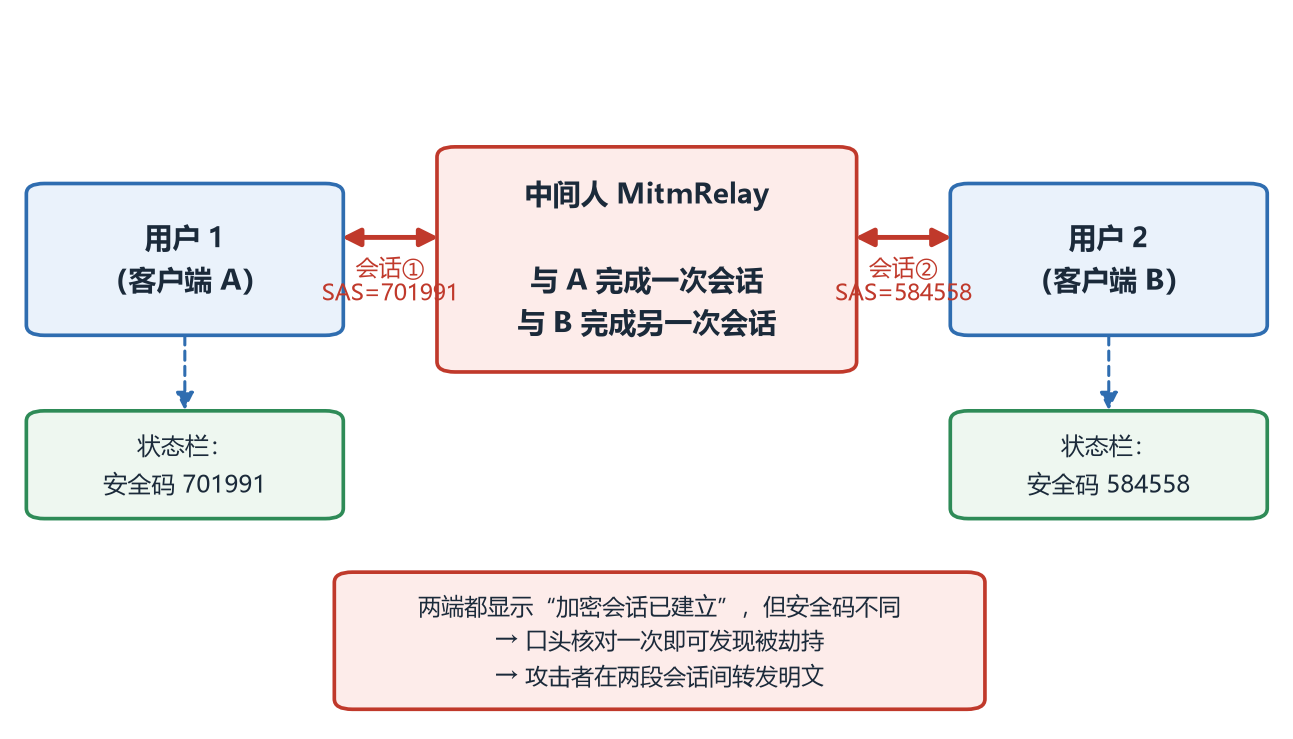
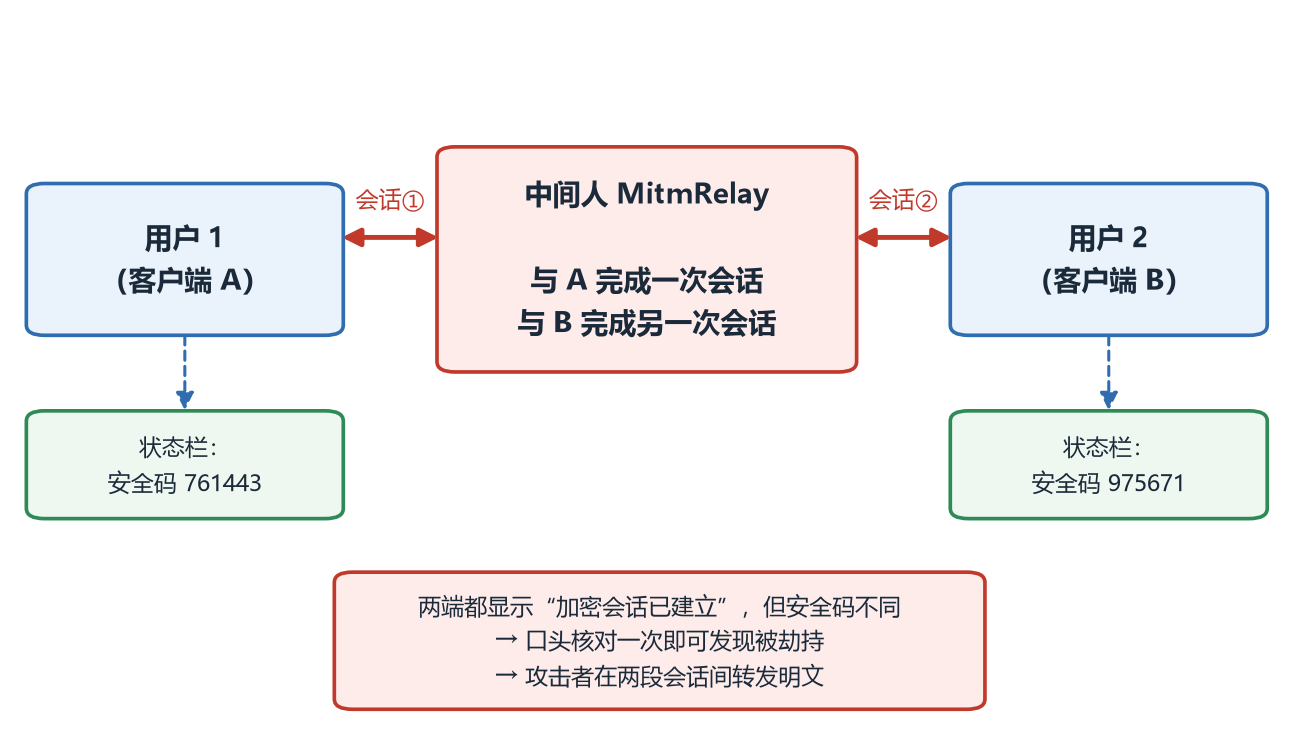
fig: 修复拓扑图排版（文字被裁切/注释压框/连线穿框/状态机方框重叠）

diff --git a/Tools/make_figures.py b/Tools/make_figures.py
@@ -7,6 +7,7 @@
   %TEMP%\\crypto_test_out.txt  CryptoTest.exe 的真实输出
 """
 import os
+import re
 
 import matplotlib
 matplotlib.use("Agg")
@@ -37,20 +38,103 @@ PURPLE = ("#f3eefb", "#6f42c1")
 
 # 记录“文字-方框”对，在 save() 时检查文字是否溢出方框
 _CHECK = []
+_NOTES = []
+_LABELS = []
+_RECTS = []
+_ARROWS = []
+
+
+def _bbox(t, r):
+    b = t.get_window_extent(r)
+    return (b.x0, b.y0, b.x1, b.y1)
+
+
+def _inter(a, b, pad=1.0):
+    return not (a[2] - pad <= b[0] or b[2] - pad <= a[0] or
+                a[3] - pad <= b[1] or b[3] - pad <= a[1])
 
 
 def _check(name):
-    """打印溢出告警（文字超出方框），用于逐条修正排版。"""
+    """打印排版告警：文字超框 / 超出画布 / 注释压框 / 注释互相重叠。"""
     fig = plt.gcf()
     fig.canvas.draw()
     r = fig.canvas.get_renderer()
+    cb = None
+    ab = fig.axes[0].get_window_extent(r)
+    canvas_box = (ab.x0, ab.y0, ab.x1, ab.y1)
+
     for p, t in _CHECK:
-        pb = p.get_window_extent(r)
-        tb = t.get_window_extent(r)
-        if tb.width > pb.width - 1.5 or tb.height > pb.height - 1.5:
-            print("    !! OVERFLOW %-20s %-28s text=%4.0f box=%4.0f"
-                  % (name, repr(t.get_text())[:28], tb.width, pb.width))
+        pb = _bbox(p, r)
+        tb = _bbox(t, r)
+        if tb[2] - tb[0] > pb[2] - pb[0] - 1.5 or tb[3] - tb[1] > pb[3] - pb[1] - 1.5:
+            print("    !! OVERFLOW %-20s %-26s tw=%.0f bw=%.0f th=%.0f bh=%.0f"
+                  % (name, repr(t.get_text())[:26], tb[2] - tb[0], pb[2] - pb[0],
+                     tb[3] - tb[1], pb[3] - pb[1]))
+
+    for t in _NOTES + _LABELS:
+        tb = _bbox(t, r)
+        if (tb[0] < canvas_box[0] + 1 or tb[2] > canvas_box[2] - 1 or
+                tb[1] < canvas_box[1] + 1 or tb[3] > canvas_box[3] - 1):
+            print("    !! CLIPPED  %-20s %s" % (name, repr(t.get_text())[:34]))
+
+    boxes = [(p, t) for p, t in _CHECK]
+    for t in _NOTES:
+        tb = _bbox(t, r)
+        for p, bt in boxes:
+            pb = _bbox(p, r)
+            if _inter(tb, pb):
+                # 注释中心落在框内且框完全包住注释 → 视为“有意放置”
+                cx, cy = (tb[0] + tb[2]) / 2, (tb[1] + tb[3]) / 2
+                inside = pb[0] <= cx <= pb[2] and pb[1] <= cy <= pb[3]
+                covered = pb[0] <= tb[0] + 1 and tb[2] <= pb[2] - 1 and pb[1] <= tb[1] + 1 and tb[3] <= pb[3] - 1
+                if not (inside and covered):
+                    print("    !! HIT-BOX  %-20s %-30s %s"
+                          % (name, repr(t.get_text())[:30], repr(bt.get_text())[:22]))
+
+    alltxt = [(_bbox(t, r), t) for t in _NOTES]
+    for i in range(len(alltxt)):
+        for j in range(i + 1, len(alltxt)):
+            if _inter(alltxt[i][0], alltxt[j][0]):
+                print("    !! HIT-TXT  %-20s %s | %s"
+                      % (name, repr(alltxt[i][1].get_text())[:24],
+                         repr(alltxt[j][1].get_text())[:24]))
+
+    # 连线穿过方框（视觉上最频发的“乱”）
+    for (x1, y1), (x2, y2), rad in _ARROWS:
+        cx = (x1 + x2) / 2 + rad * (y2 - y1)
+        cy = (y1 + y2) / 2 - rad * (x2 - x1)
+        for (rx, ry, rw, rh, rname) in _RECTS:
+            hit = False
+            for k in range(1, 40):
+                t2 = k / 40.0
+                px = (1 - t2) ** 2 * x1 + 2 * (1 - t2) * t2 * cx + t2 ** 2 * x2
+                py = (1 - t2) ** 2 * y1 + 2 * (1 - t2) * t2 * cy + t2 ** 2 * y2
+                if rx + 1 < px < rx + rw - 1 and ry + 1 < py < ry + rh - 1:
+                    hit = True
+                    break
+            if hit:
+                print("    !! ARROW-IN %-20s (%.0f,%.0f)->(%.0f,%.0f) 穿过 %s"
+                      % (name, x1, y1, x2, y2, rname))
+
+    # 方框互相重叠（完全包含视为“容器”，不算问题）
+    for i in range(len(_RECTS)):
+        ax1, ay1, aw1, ah1, an1 = _RECTS[i]
+        for j in range(i + 1, len(_RECTS)):
+            bx1, by1, bw1, bh1, bn2 = _RECTS[j]
+            if not (ax1 < bx1 + bw1 - 1 and bx1 < ax1 + aw1 - 1 and
+                    ay1 < by1 + bh1 - 1 and by1 < ay1 + ah1 - 1):
+                continue
+            contains = (ax1 <= bx1 and ay1 <= by1 and
+                        bx1 + bw1 <= ax1 + aw1 and by1 + bh1 <= ay1 + ah1) or \
+                       (bx1 <= ax1 and by1 <= ay1 and
+                        ax1 + aw1 <= bx1 + bw1 and ay1 + ah1 <= by1 + bh1)
+            if not contains:
+                print("    !! BOX-OVLP %-20s %s | %s" % (name, an1, bn2))
     _CHECK.clear()
+    _NOTES.clear()
+    _LABELS.clear()
+    _RECTS.clear()
+    _ARROWS.clear()
 
 
 # 插图按“最终印刷尺寸”绘制：画布宽度接近插入宽度（16 cm ≈ 6.3 in），
@@ -82,6 +166,7 @@ def box(ax, x, y, w, h, text, colors=BLUE, fs=9, bold=False, ls="-", lw=1.2,
     t = ax.text(tx, y + h / 2, text, ha=ha, va="center", fontsize=fs, color=tc,
                 fontweight="bold" if bold else "normal", zorder=z + 1, linespacing=1.45)
     _CHECK.append((p, t))
+    _RECTS.append((x, y, w, h, text[:10]))
     return p
 
 
@@ -93,14 +178,18 @@ def arrow(ax, p1, p2, color="#2f6db0", lw=1.4, style="-|>", ls="-", rad=0.0,
     if label:
         mx = p1[0] + (p2[0] - p1[0]) * lp + dx
         my = p1[1] + (p2[1] - p1[1]) * lp + dy
-        ax.text(mx, my, label, ha="center", va="center", fontsize=fs,
-                color=tc or color, zorder=6,
-                bbox=dict(fc="white", ec="none", alpha=0.92, pad=1.2))
+        t = ax.text(mx, my, label, ha="center", va="center", fontsize=fs,
+                    color=tc or color, zorder=6,
+                    bbox=dict(fc="white", ec="none", alpha=0.92, pad=1.2))
+        _LABELS.append(t)
+    _ARROWS.append((tuple(p1), tuple(p2), rad))
 
 
 def note(ax, x, y, text, fs=8, color=INK, ha="center", style="normal"):
-    ax.text(x, y, text, ha=ha, va="center", fontsize=fs, color=color,
-            style=style, zorder=5)
+    t = ax.text(x, y, text, ha=ha, va="center", fontsize=fs, color=color,
+                style=style, zorder=5)
+    _NOTES.append(t)
+    return t
 
 
 def save(fig, name):
@@ -141,16 +230,16 @@ def fig_usecase():
         ax.plot([x, x + 2.6], [y - 1.6, y - 5.4], color=color, lw=1.4, zorder=3)
         note(ax, x, y - 8.5, name, 9, color)
 
-    actor(10, 60, "用户（客户端 A/B）", "#2f6db0")
-    actor(90, 62, "中继服务器", "#8290a0")
-    actor(90, 22, "攻击者", "#c0392b")
+    actor(12, 60, "用户 A / B", "#2f6db0")
+    actor(90, 60, "攻击者", "#c0392b")
+    actor(90, 30, "中继服务器", "#8290a0")
 
     for y in ys[:5]:
-        ax.plot([14, 30], [57, y], color="#9bb4cc", lw=0.9, zorder=1)
-    ax.plot([86, 70], [62, 14], color="#a8b3bf", lw=0.9, zorder=1)
-    ax.plot([86, 70], [26, 72], color="#c0392b", lw=1.1, ls=(0, (4, 2)), zorder=1)
+        ax.plot([16, 30], [57, y], color="#9bb4cc", lw=0.9, zorder=1)
+    ax.plot([86, 70], [33, 14], color="#a8b3bf", lw=0.9, zorder=1)
+    ax.plot([86, 70], [56, 72], color="#c0392b", lw=1.1, ls=(0, (4, 2)), zorder=1)
 
-    note(ax, 87, 3, "中间人劫持会被两端不同的安全码发现", 7.6, "#c0392b")
+    note(ax, 50, 4, "红色虚线：中间人劫持路径（两端安全码因此不同）", 7.4, "#c0392b")
     save(fig, "fig_usecase.png")
 
 
@@ -178,13 +267,12 @@ def fig_arch():
     box(ax, 36.5, 43, 27, 14, "心跳应答 PONG\n60 秒无活动回收 ID", AMBER, 7.6)
     box(ax, 36.5, 26, 27, 14, "帧长检查\n4 B ≤ len ≤ 1 MiB", AMBER, 7.6)
 
-    arrow(ax, (30, 52), (36.5, 52), label="密文帧", fs=8)
-    arrow(ax, (36.5, 44), (30, 44), label="密文帧", fs=8, dy=-2.4)
-    arrow(ax, (63.5, 52), (70.5, 52), label="密文帧", fs=8)
-    arrow(ax, (70.5, 44), (63.5, 44), label="密文帧", fs=8, dy=-2.4)
+    arrow(ax, (30, 52), (36.5, 52), label="密文帧", fs=7.6)
+    arrow(ax, (36.5, 44), (30, 44), label="密文帧", fs=7.6, dy=-2.4)
+    arrow(ax, (63.5, 52), (70.5, 52), label="密文帧", fs=7.6)
+    arrow(ax, (70.5, 44), (63.5, 44), label="密文帧", fs=7.6, dy=-2.4)
 
-    note(ax, 50, 10, "服务器被攻破也只能得到密文与元数据；任何篡改都会因 AAD 认证失败而被丢弃",
-         7.6, "#7a4b0c")
+    note(ax, 50, 9, "服务器被攻破也只能得到密文与元数据；\n篡改会被 AAD 认证拒绝", 7.4, "#7a4b0c")
     save(fig, "fig_arch.png")
 
 
@@ -295,12 +383,11 @@ def fig_kdf():
         box(ax, x, 44, 22, 10, t, AMBER, 8)
         arrow(ax, (50, 60), (x + 11, 54), rad=0.0, lw=1.0)
 
-    note(ax, 13, 36, "发送链", 7.6, "#a86a12", style="italic")
+    note(ax, 13, 39.5, "发送链", 7.6, "#a86a12", style="italic")
     subs = [("消息密钥\n(32 B)", 2), ("nonce / IV\n(12 B)", 26), ("下一链密钥\n(32 B)", 50)]
     for t, x in subs:
         box(ax, x, 26, 22, 9, t, (("#eaf2fb"), "#2f6db0"), 7.8)
-        arrow(ax, (13, 34), (x + 11, 35), rad=-0.05, lw=1.0)
-    arrow(ax, (61, 35), (13, 44), rad=0.30, lw=1.3, color="#c0392b")
+        arrow(ax, (13, 44), (x + 11, 35), lw=1.0)
     note(ax, 37, 20, "chain' 回写为下一轮的链密钥（旧值立即清零）", 7.6, "#c0392b")
 
     box(ax, 76, 26, 21, 9, "root'\n= HKDF(DH, root)", (("#f3eefb"), "#6f42c1"), 7.8)
@@ -326,7 +413,6 @@ def fig_msg_ratchet():
         arrow(ax, (x + 9.5, 58), (x + 9.5, 43), lw=1.1, color="#2e8b57")
         note(ax, x + 9.5, 28, f"加密第 {i + 1} 条消息", 7.6, "#5b7086")
 
-    arrow(ax, (91, 52), (91, 20), rad=0.0, lw=0, color="white")
     note(ax, 50, 19, "chain$_{i+1}$ = HKDF(chain$_{i}$, “chain next”)　然后把 chain$_{i}$ 清零覆盖", 8.8,
          "#c0392b")
     note(ax, 50, 11,
@@ -396,34 +482,37 @@ def fig_relay():
 
 # ------------------------------------------------- 9. 客户端状态机 ----------
 def fig_state():
-    fig, ax = canvas(9.8, 5.2)
+    fig, ax = canvas(9.8, 5.6)
     states = [
-        ("启动", 3, 78, GRAY),
-        ("连接中\nconnect(127.0.0.1:9000)", 23, 78, BLUE),
-        ("已连接\n（服务器分配临时 ID）", 46, 78, BLUE),
-        ("握手进行中\nINIT/RESP/CONFIRM", 46, 46, PURPLE),
-        ("会话已建立\n显示安全码 + 指纹", 46, 14, GREEN),
-        ("断线 / 重试\n15 秒无 PONG", 74, 46, RED),
+        ("启动", 4, 80, 18, 12, GRAY),
+        ("连接中\nconnect(:9000)", 32, 80, 26, 12, BLUE),
+        ("已连接\n（服务器分配 ID）", 32, 58, 26, 12, BLUE),
+        ("握手进行中\nINIT / RESP / CONFIRM", 32, 36, 26, 12, PURPLE),
+        ("会话已建立\n显示安全码 + 指纹", 32, 14, 26, 12, GREEN),
+        ("断线 / 重试\n15 秒无 PONG", 70, 58, 26, 12, RED),
     ]
-    for t, x, y, c in states:
-        box(ax, x, y, 24, 14, t, c, 8.2, bold=(c is GREEN))
+    for t, x, y, w, h, c in states:
+        box(ax, x, y, w, h, t, c, 8.0, bold=(c is GREEN))
 
-    arrow(ax, (15, 85), (23, 85), lw=1.2)
-    arrow(ax, (35, 85), (46, 85), lw=1.2, label="连接成功", fs=7.4, dy=3.0)
-    arrow(ax, (58, 78), (58, 60), lw=1.2, label="首次发送 / 收到 INIT", fs=7.4, dx=0.0, dy=0)
-    ax.text(59.5, 69, "首次发送 / 收到 INIT", fontsize=7.4, color="#2f6db0", va="center")
-    arrow(ax, (58, 46), (58, 28), lw=1.2)
-    ax.text(59.5, 37, "MAC_A / MAC_B 校验通过", fontsize=7.4, color="#2e8b57", va="center")
-    arrow(ax, (70, 78), (74, 60), lw=1.2, color="#c0392b", rad=-0.15)
-    ax.text(80, 68, "socket 读失败", fontsize=7.4, color="#c0392b", va="center")
-    arrow(ax, (70, 21), (74, 46), lw=1.2, color="#c0392b", rad=0.2)
-    ax.text(86, 30, "心跳超时\n或服务器关闭", fontsize=7.4, color="#c0392b", va="center", ha="center")
-    arrow(ax, (74, 53), (35, 82), lw=1.2, color="#c0392b", ls=(0, (4, 2)), rad=0.25,
-          label="3 秒后自动重连", fs=7.4, tc="#c0392b", dx=6, dy=-6)
+    arrow(ax, (22, 86), (32, 86), lw=1.2)
+    arrow(ax, (45, 80), (45, 70), lw=1.2)
+    ax.text(46.5, 75, "连接成功", fontsize=7.4, color="#2f6db0", va="center")
+    arrow(ax, (45, 58), (45, 48), lw=1.2)
+    ax.text(46.5, 53, "首次发送 / 收到 INIT", fontsize=7.4, color="#2f6db0", va="center")
+    arrow(ax, (45, 36), (45, 26), lw=1.2)
+    ax.text(46.5, 31, "MAC 校验通过", fontsize=7.4, color="#2e8b57", va="center")
 
-    note(ax, 20, 62, "服务器侧：60 秒无活动\n→ 回收该 ID", 7.6, "#a86a12")
-    note(ax, 20, 14, "重连后会话必须重新握手：\n旧会话密钥已随 socket 一起丢弃\n（这正是前向保密的体现）", 7.8,
-         "#31414f")
+    arrow(ax, (58, 64), (70, 64), lw=1.2, color="#c0392b")
+    ax.text(64, 66.6, "socket 读失败", fontsize=7.2, color="#c0392b", ha="center")
+    arrow(ax, (58, 20), (70, 57), lw=1.2, color="#c0392b", rad=-0.12)
+    ax.text(66.5, 40, "心跳超时 /\n服务器关闭", fontsize=7.2, color="#c0392b", ha="center")
+
+    arrow(ax, (83, 70), (58, 86), lw=1.2, ls=(0, (4, 2)), color="#c0392b", rad=0.12)
+    ax.text(72, 82, "3 秒后自动重连", fontsize=7.2, color="#c0392b", ha="center")
+
+    note(ax, 2, 46, "服务器侧：60 秒无活动\n→ 回收该 ID", 7.4, "#a86a12", ha="left")
+    note(ax, 2, 26, "重连后必须重新握手：\n旧会话密钥随 socket 一起丢弃\n（这正是前向保密的体现）",
+         7.2, "#31414f", ha="left")
     save(fig, "fig_state.png")
 
 
@@ -450,16 +539,30 @@ def fig_storage():
     arrow(ax, (62, 37), (57, 37), lw=1.1, color="#c9861a")
 
     note(ax, 15, 40, "身份密钥\n是持久根", 7.8, "#2e8b57")
-    note(ax, 15, 20,
-         "为什么用“身份指纹”而不是服务器 ID 做目录名？\n"
-         "服务器 ID 是临时的（重启即变），身份密钥才是持久的；\n"
-         "这样重启、换 ID 之后，历史记录与指纹固定依然有效。", 7.8, "#31414f", style="italic")
+    note(ax, 2, 20, "为什么不按服务器 ID 归档？\nID 是临时的，身份密钥才是持久的；\n重启或换 ID 后历史与指纹固定仍有效",
+         7.4, "#31414f", ha="left", style="italic")
     box(ax, 62, 7, 32, 16, "换账户 / 换机器拷贝文件\nidentity.pem 无法解密\n历史记录一并失效",
         (("#f3f5f8"), "#8290a0"), 7.2)
     save(fig, "fig_storage.png")
 
 
 # ------------------------------------------------- 11. 中间人拓扑 ----------
+def _read_sas(path):
+    """读 mitm_demo 写出的两端安全码（c1/c2），没有就返回空串。"""
+    txt = ""
+    try:
+        with open(path, encoding="utf-8-sig", errors="replace") as f:
+            txt = f.read()
+    except OSError:
+        pass
+    out = []
+    for line in txt.splitlines():
+        if line.startswith(("c1=", "c2=")):
+            m = re.search(r"(\d{6})", line)
+            out.append(m.group(1) if m else "")
+    return out if len(out) == 2 else ["", ""]
+
+
 def fig_mitm():
     fig, ax = canvas(9.8, 5.6)
     box(ax, 2, 55, 24, 20, "用户 1\n（客户端 A）", BLUE, 9, bold=True)
@@ -468,11 +571,12 @@ def fig_mitm():
         RED, 9, bold=True)
     arrow(ax, (26, 68), (34, 68), color="#c0392b", lw=1.6, style="<|-|>")
     arrow(ax, (66, 68), (74, 68), color="#c0392b", lw=1.6, style="<|-|>")
-    note(ax, 30, 62, "会话①\nSAS=701991", 7.6, "#c0392b")
-    note(ax, 70, 62, "会话②\nSAS=584558", 7.6, "#c0392b")
+    note(ax, 30, 73, "会话①", 7.4, "#c0392b")
+    note(ax, 70, 73, "会话②", 7.4, "#c0392b")
 
-    box(ax, 2, 30, 24, 14, "状态栏：\n安全码 701991", (("#eef7f0"), "#2e8b57"), 8)
-    box(ax, 74, 30, 24, 14, "状态栏：\n安全码 584558", (("#eef7f0"), "#2e8b57"), 8)
+    s1, s2 = _read_sas(os.path.join(MITM, "sas.txt"))
+    box(ax, 2, 30, 24, 14, "状态栏：\n安全码 " + (s1 or "见正文"), (("#eef7f0"), "#2e8b57"), 7.4)
+    box(ax, 74, 30, 24, 14, "状态栏：\n安全码 " + (s2 or "见正文"), (("#eef7f0"), "#2e8b57"), 7.4)
     arrow(ax, (14, 55), (14, 44), lw=1.0, ls=(0, (3, 2)))
     arrow(ax, (86, 55), (86, 44), lw=1.0, ls=(0, (3, 2)))
 

diff --git a/Tools/build_reports_safe.py b/Tools/build_reports_safe.py
@@ -1,0 +1,49 @@
+# -*- coding: utf-8 -*-
+"""在报告文件被 WPS/Word 占用时，先把两份 docx 生成到临时目录，再尝试替换。
+
+用法：python Tools\build_reports_safe.py
+"""
+import os
+import shutil
+import sys
+
+HERE = os.path.dirname(os.path.abspath(__file__))
+ROOT = os.path.dirname(HERE)
+sys.path.insert(0, HERE)
+
+import make_reports as m  # noqa: E402
+
+TMP_OUT = os.path.join(os.environ.get("TEMP", "."), "reports_new")
+NAMES = [
+    "专业程序设计报告-成员A-密码协议方向.docx",
+    "专业程序设计报告-成员B-网络与工程化方向.docx",
+]
+
+
+def main():
+    os.makedirs(TMP_OUT, exist_ok=True)
+    m.OUTDIR = TMP_OUT
+    m.main()
+
+    print("\n替换到 docs/ ...")
+    failed = []
+    for n in NAMES:
+        src = os.path.join(TMP_OUT, n)
+        dst = os.path.join(ROOT, "docs", n)
+        try:
+            shutil.copyfile(src, dst)
+            print("  OK   ", n)
+        except OSError as e:
+            failed.append(n)
+            print("  LOCKED", n, "->", e)
+
+    if failed:
+        print("\n以下文件被占用，未能覆盖（新版本已放在 %s）：" % TMP_OUT)
+        for n in failed:
+            print("  ", os.path.join(TMP_OUT, n))
+        return 1
+    return 0
+
+
+if __name__ == "__main__":
+    sys.exit(main())
